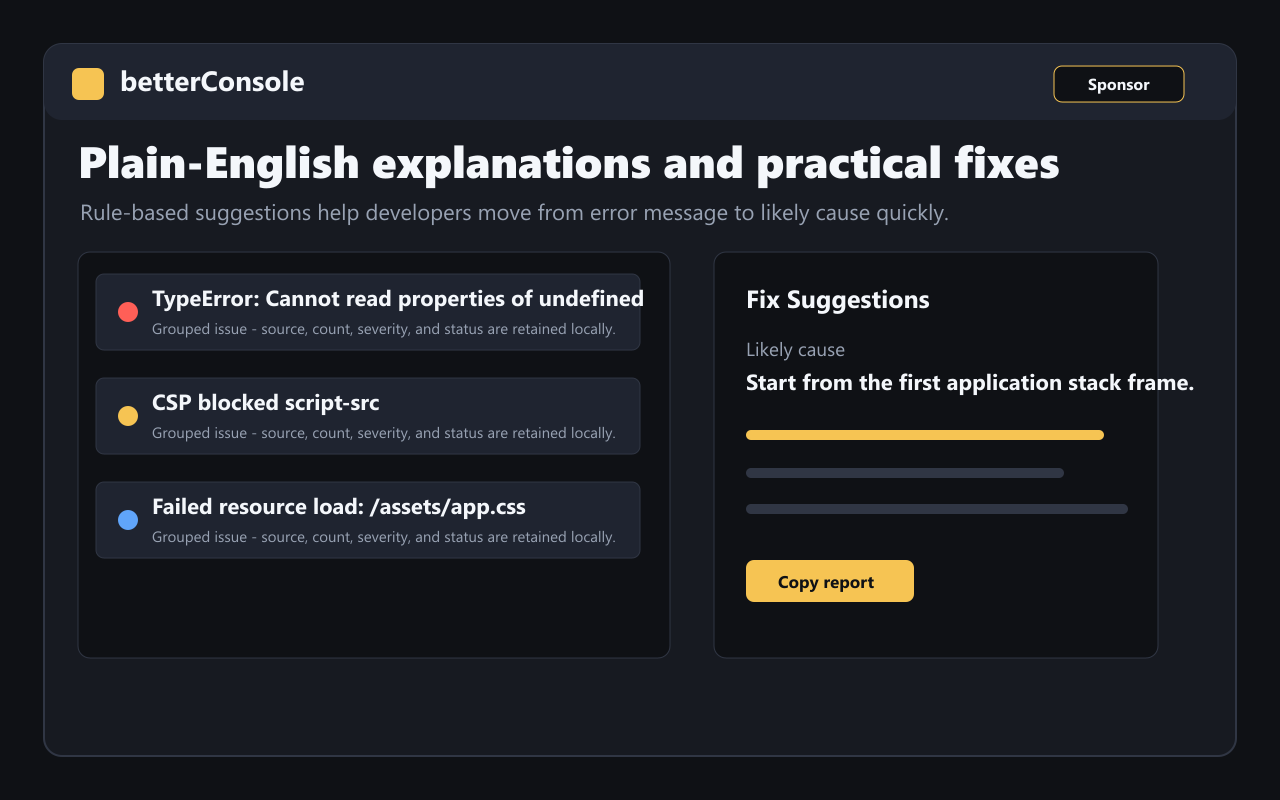
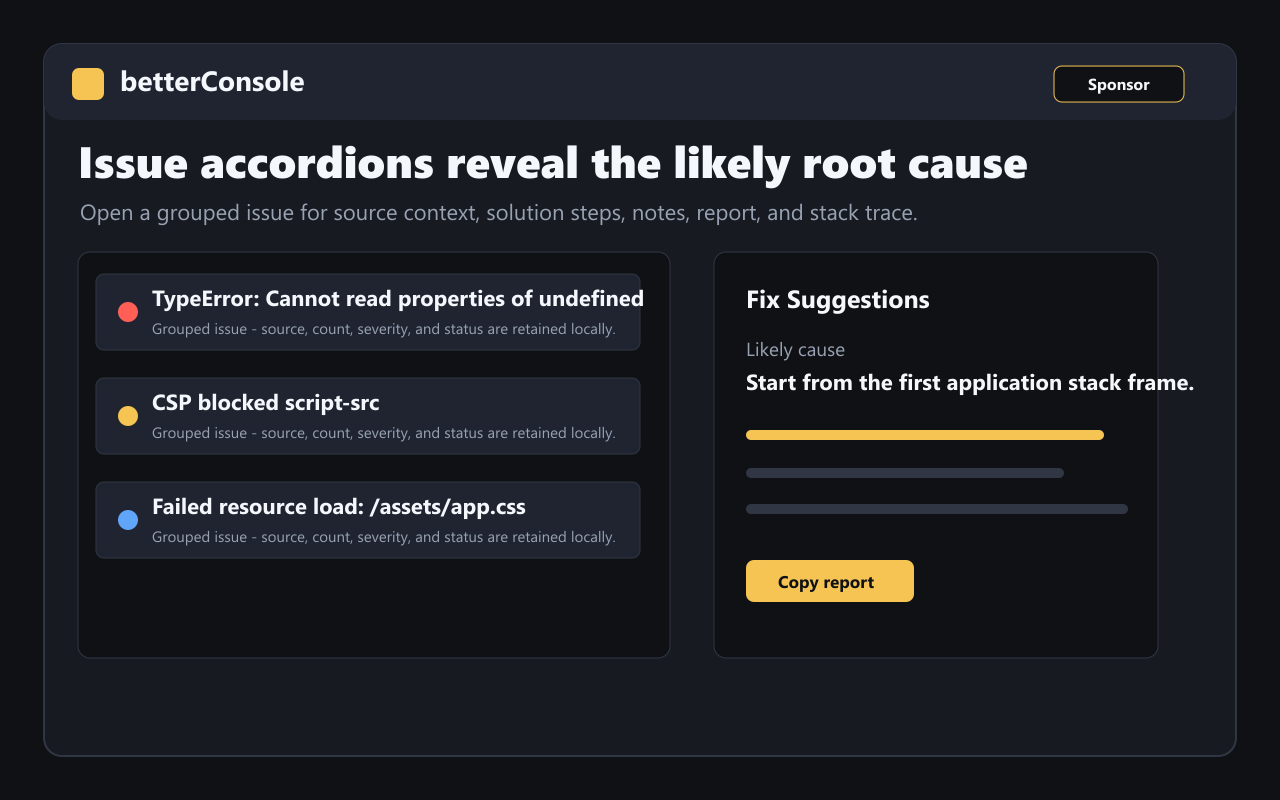
Update betterConsole accordion media

Changed region(s): [[0.0625, 0.1562, 0.8438, 0.2812]]

diff --git a/media/betterconsole/policies/chrome-web-store-listing.md b/media/betterconsole/policies/chrome-web-store-listing.md
@@ -20,9 +20,9 @@ betterConsole improves browser console debugging by capturing console activity l
 
 betterConsole is a privacy-first debugging extension for Chrome, Edge, Brave, and Chromium-based browsers. It captures console logs, warnings, errors, runtime exceptions, unhandled promise rejections, failed resource loads, and CSP violations without breaking native console behavior.
 
-The extension groups repeated errors, highlights likely source files, detects framework hints, provides practical fix suggestions, and gives developers a Vision Mode overview of the current page's console health. It follows the active tab by default, refreshes capture on tab switches and page loads, and offers an explicit all-tabs mode when developers need a wider debugging view. Developers can pause or resume capture, refresh the active tab, clear current-tab logs, reset all logs, mark issues fixed, ignore noisy issues, add notes, copy clean error text, export issues, and generate sanitized Markdown debug reports for GitHub Issues, Jira, Linear, Slack, Discord, email, and pull request comments.
+The extension groups repeated errors, highlights likely source files, detects framework hints, provides practical fix suggestions, and gives developers a Vision Mode overview of the current page's console health. It follows the active tab by default, refreshes capture on tab switches and page loads, and offers an explicit all-tabs mode when developers need a wider debugging view. Clicking an issue opens an inline accordion with root-cause details, source/page context, solution steps, research links, notes, report, and stack trace. Developers can pause or resume capture, refresh the active tab, clear current-tab logs, reset all logs, mark issues fixed, ignore noisy issues, add notes, copy clean error text, export issues, and generate sanitized Markdown debug reports for GitHub Issues, Jira, Linear, Slack, Discord, email, and pull request comments.
 
-betterConsole stores data locally in browser storage. It does not send logs to a server, does not collect analytics, and does not execute remote code. Online fix search is user-controlled: the extension generates a sanitized query, shows it for review, and opens a normal browser search tab only after the user chooses to search.
+betterConsole stores data locally in browser storage. It does not send logs to a server, does not collect analytics, and does not execute remote code. Online fix search is user-controlled: the extension generates a sanitized query, shows it for review, and opens a normal browser search tab only after the user chooses to search. Chrome opens Google search, and Edge opens Bing search in the same browser.
 
 ## Store Assets
 
@@ -49,7 +49,7 @@ Generated by `npm run package`:
 
 - `storage`: Local logs, settings, notes, bookmarks, ignored patterns, capture state, startup keep/reset preference, and retention state.
 - `activeTab`: User-triggered capture refresh for the active tab.
-- `tabs`: Active tab metadata, tab switch refresh, tab-scoped counts, side panel opening, and current-tab clearing.
+- `tabs`: Active tab metadata, tab switch refresh, tab-scoped counts, side panel opening, current-tab clearing, and user-requested solution search tabs.
 - `sidePanel`: Side panel debugging workflow.
 - `alarms`: Local retention cleanup.
 - `downloads`: User-requested issue/report exports.

diff --git a/media/betterconsole/policies/edge-addons-compliance.md b/media/betterconsole/policies/edge-addons-compliance.md
@@ -4,7 +4,7 @@ Use this file to complete the Microsoft Edge Add-ons submission form for betterC
 
 ## Single Purpose Description
 
-betterConsole helps developers debug web pages by capturing browser console activity locally, following the active tab by default, grouping repeated issues, searching and filtering logs, explaining likely causes, generating sanitized debug reports, and opening user-controlled online searches for fixes.
+betterConsole helps developers debug web pages by capturing browser console activity locally, following the active tab by default, grouping repeated issues, opening issue accordions with source and root-cause details, searching and filtering logs, generating sanitized debug reports, and opening user-controlled online searches for fixes.
 
 ## Permission Justification
 
@@ -18,7 +18,7 @@ Required for user-initiated actions from the popup, including refreshing the pac
 
 ### tabs justification
 
-Required to identify the current active tab, refresh capture when the active tab changes, associate captured logs with the correct tab, display current-tab status, open the side panel for the active tab, and clear logs for only the current tab when requested.
+Required to identify the current active tab, refresh capture when the active tab changes, associate captured logs with the correct tab, display current-tab status, open the side panel for the active tab, open user-requested solution search tabs, and clear logs for only the current tab when requested.
 
 ### sidePanel justification
 